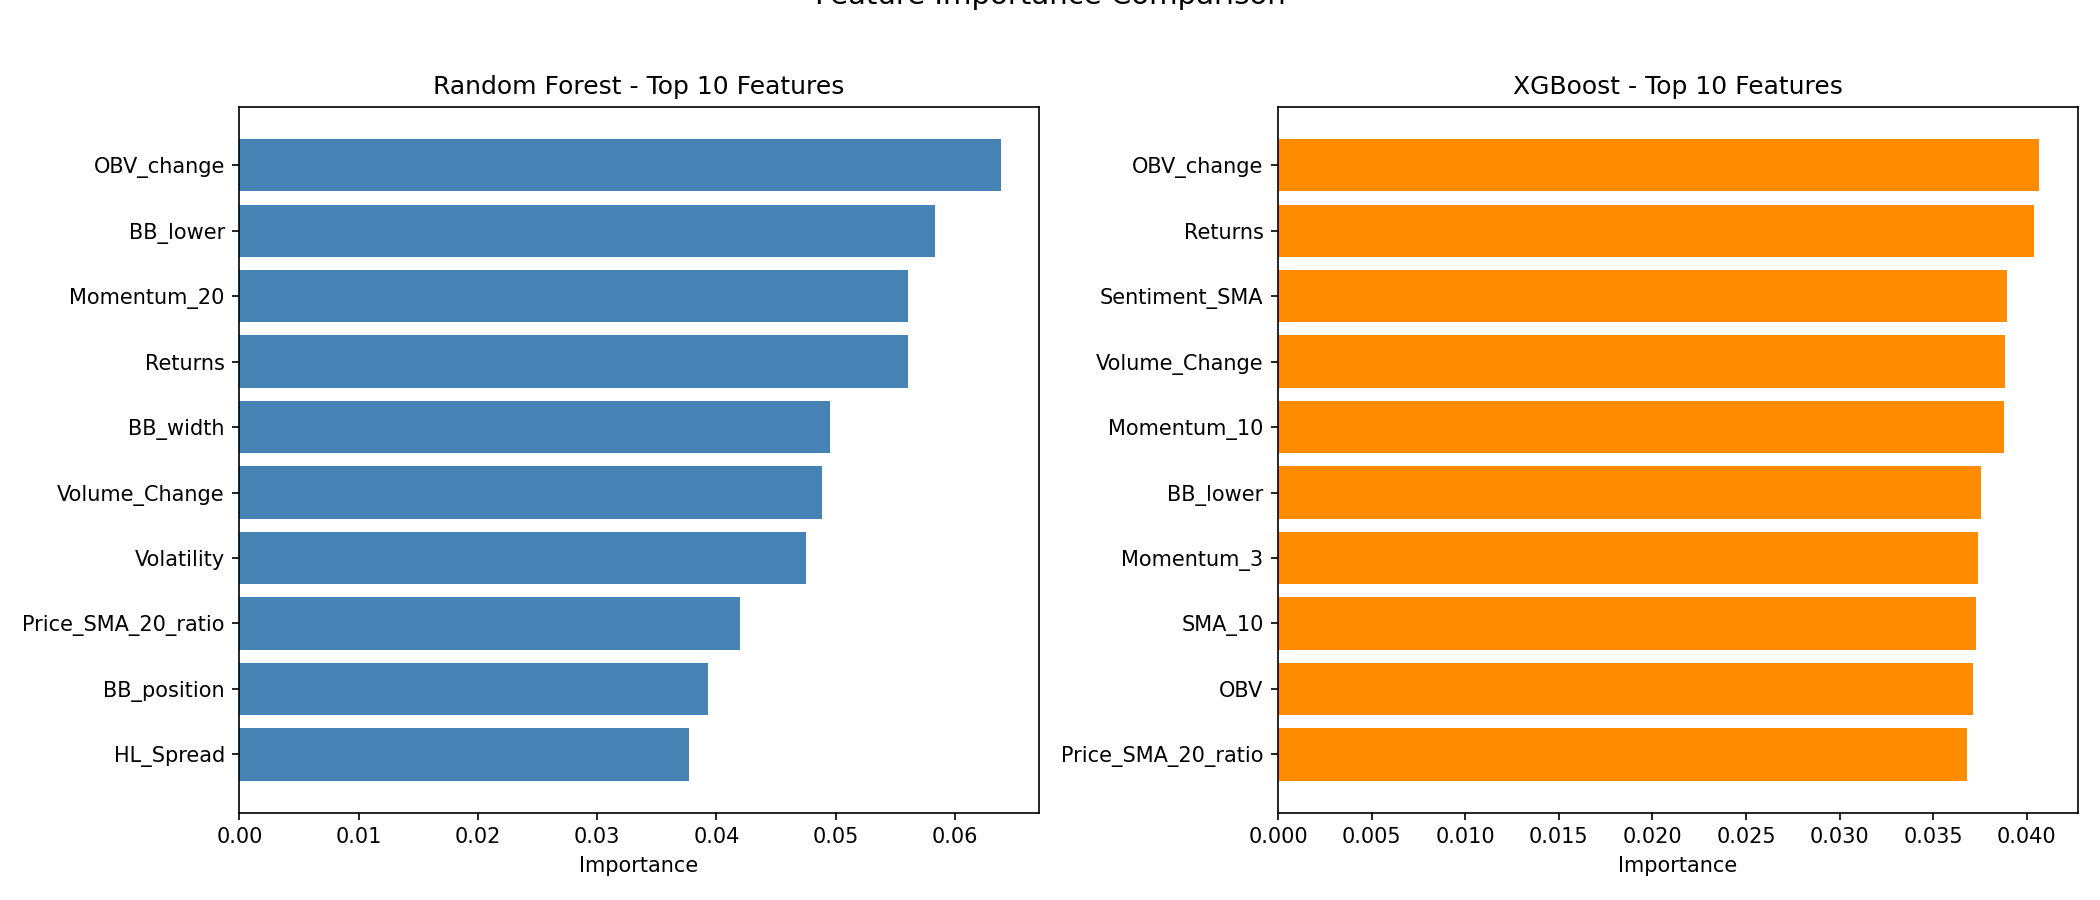
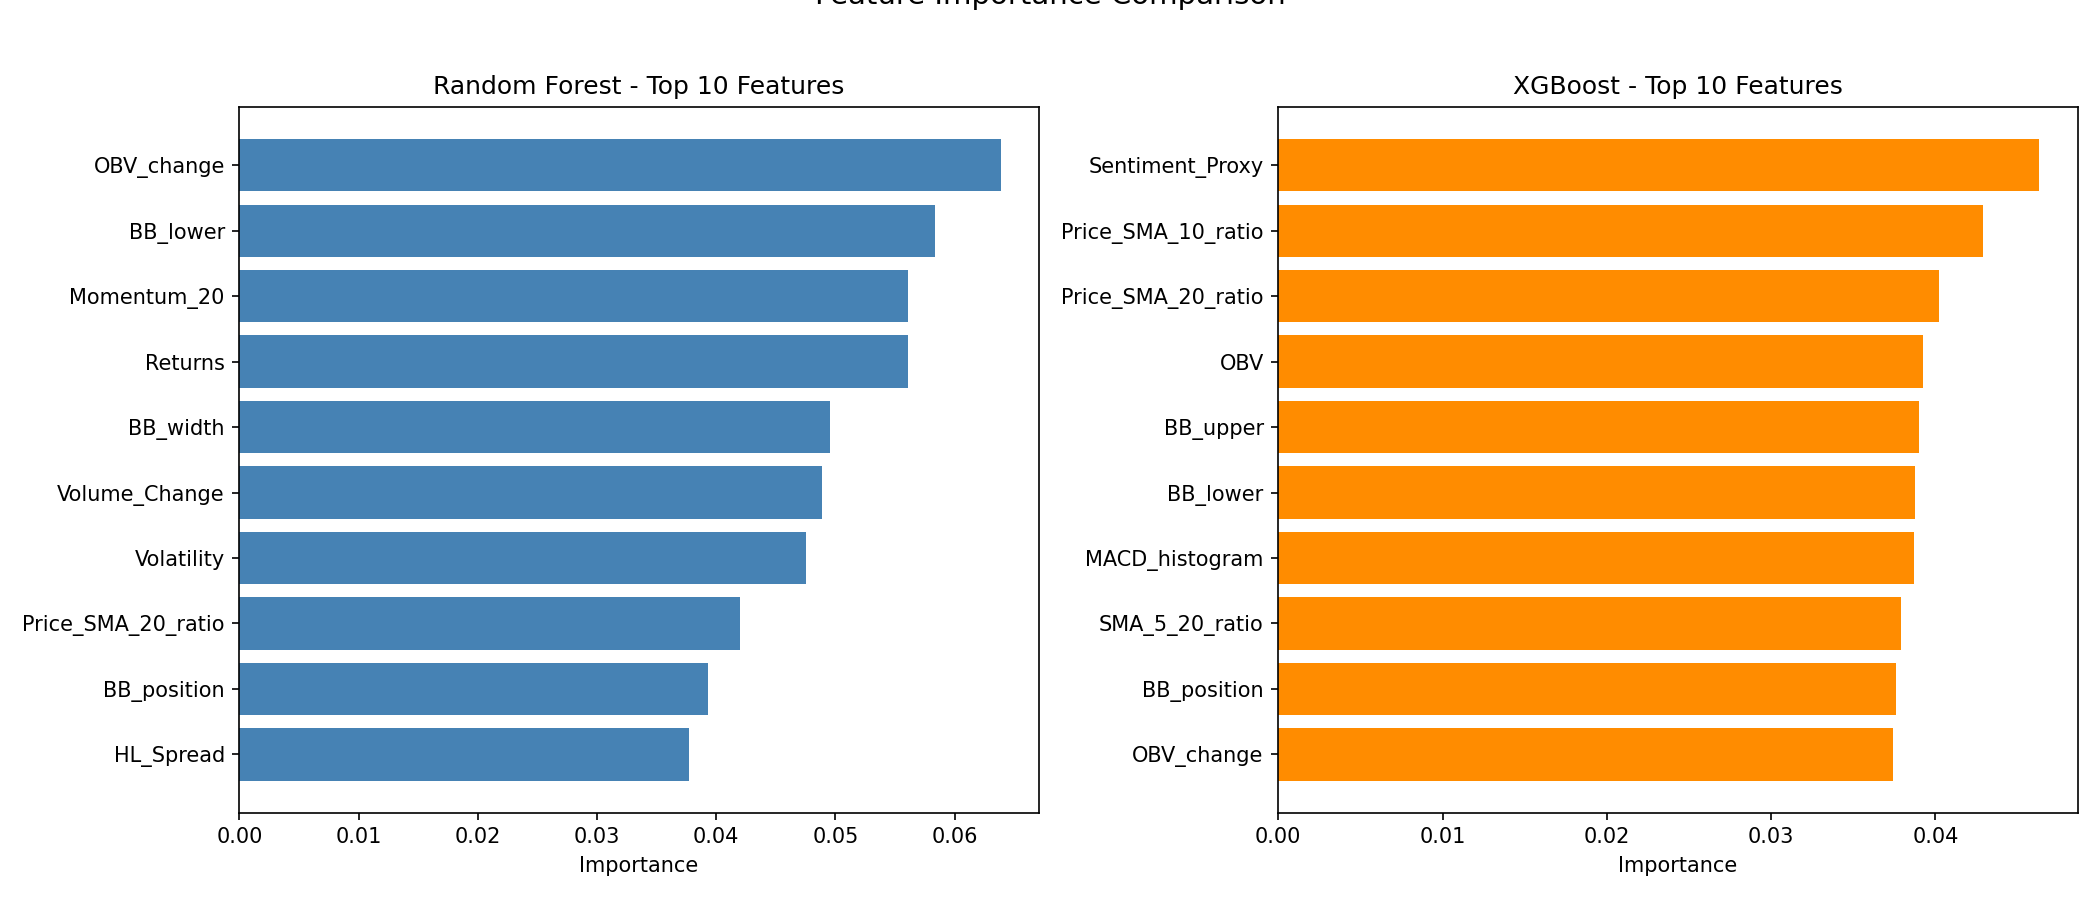
Update logging verbosity to True; adjust model evaluation metrics and update output images

diff --git a/stock_ml_project/config.py b/stock_ml_project/config.py
@@ -109,7 +109,7 @@ SENTIMENT_WINDOW = 1  # 3-day moving average of sentiment
 
 # LOGGING SETTINGS
 # Verbosity level , Verbosity is the level of detail in console output. Set to True for detailed logs, False for minimal output.
-VERBOSE = False  # Set to False to reduce console output
+VERBOSE = True  # Set to False to reduce console output
 
 
 # FEATURE COLUMNS
